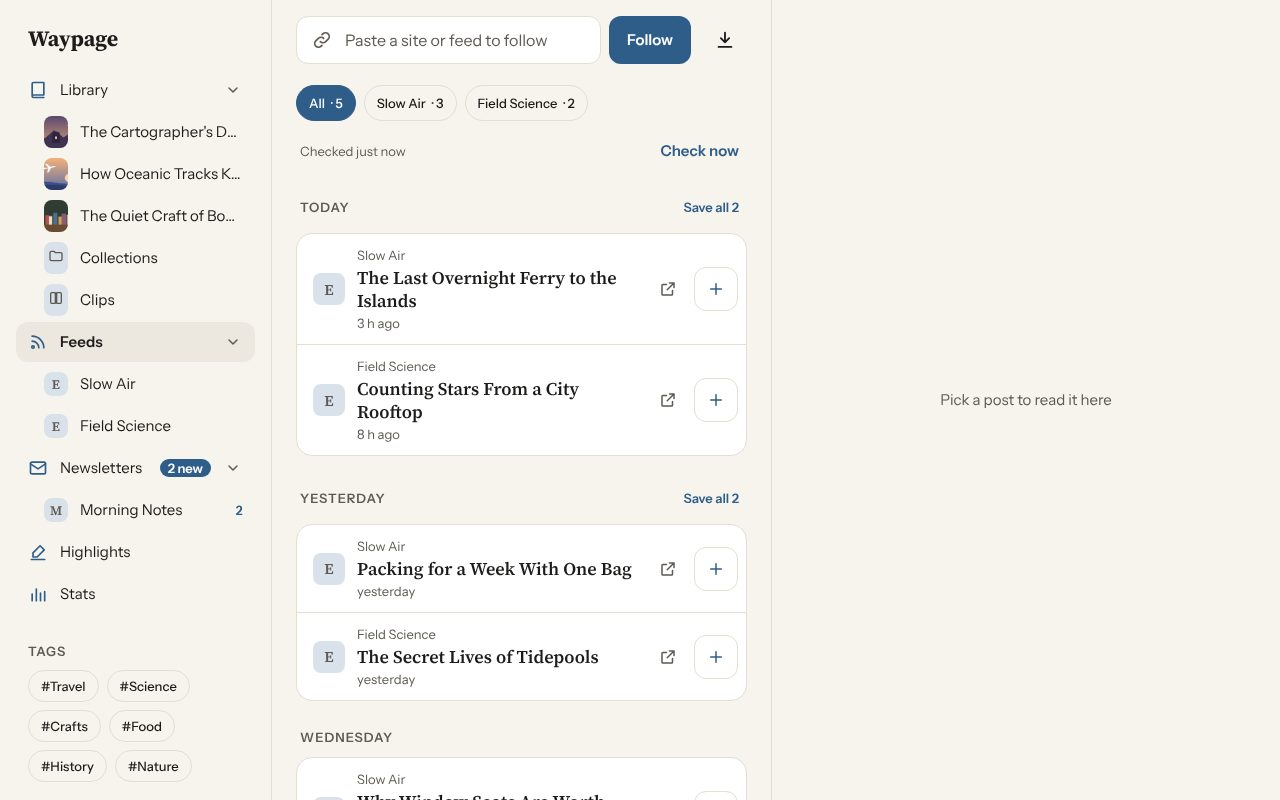
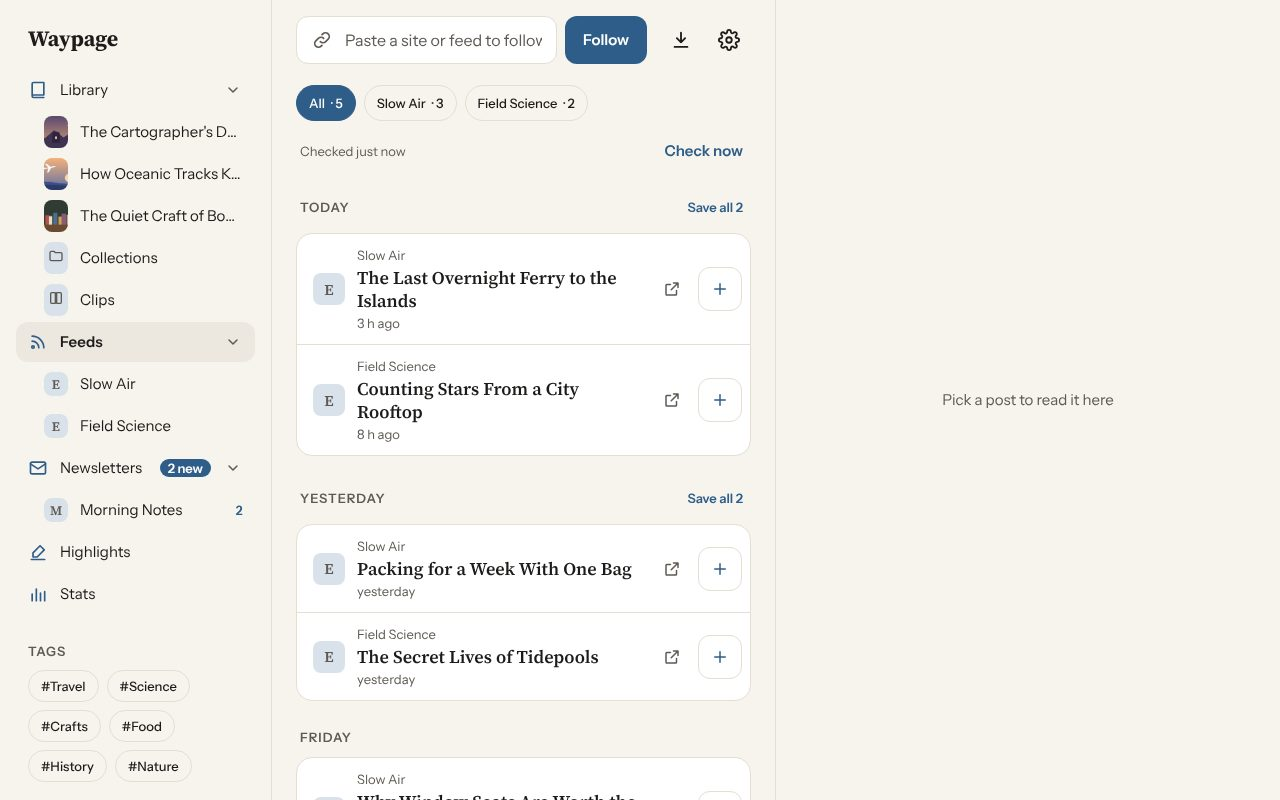
Feeds, Newsletters and Highlights split half and half on a computer, with a line to drag
Claude-Session: https://claude.ai/code/session_01CFeKriHfoWW1T4GBSE4CQR

diff --git a/src/styles.css b/src/styles.css
@@ -2520,14 +2520,28 @@ kbd {
   }
   .reader.aloud .read-keys { display: none; }
 }
+.pane-grip { display: none; }
 @media (min-width: 1280px) {
-  body.pinned #libraryView:is([data-place="feeds"], [data-place="newsletters"], [data-place="highlights"]) { width: 500px; border-inline-end: 1px solid var(--line); }
+  /* The list and the post beside it share the room half and half, and
+     the line between them can be dragged (1.49.0, Daniel's ask; it was a
+     500 px list). --list-w is set from the saved share in app-places.js. */
+  :root { --list-w: calc((100vw - var(--side-w)) / 2); }
+  body.pinned #libraryView:is([data-place="feeds"], [data-place="newsletters"], [data-place="highlights"]) { width: var(--list-w); border-inline-end: 1px solid var(--line); }
+  body.pinned:has(#libraryView:is([data-place="feeds"], [data-place="newsletters"], [data-place="highlights"])):not(:has(#readerView:not([hidden]):not([data-pane]))) .pane-grip {
+    display: block; position: fixed; top: 0; bottom: 0; left: calc(var(--side-w) + var(--list-w) - 5px); z-index: 11; width: 10px;
+    cursor: col-resize; touch-action: none;
+  }
+  .pane-grip::after { content: ""; position: absolute; top: 0; bottom: 0; left: 4px; width: 2px; background: transparent; transition: background-color 120ms linear; }
+  .pane-grip:hover::after, .pane-grip.dragging::after, .pane-grip:focus-visible::after { background: var(--accent); }
+  .pane-grip:focus-visible { outline: none; }
+  body.resizing { cursor: col-resize; user-select: none; }
+  body.resizing iframe { pointer-events: none; }
   body.pinned #libraryView:is([data-place="feeds"], [data-place="newsletters"], [data-place="highlights"]) > * { padding-inline: var(--s-5); }
   body.pinned:has(#libraryView:is([data-place="feeds"], [data-place="newsletters"], [data-place="highlights"])):has(#readerView[hidden]) .pane-note {
-    display: flex; position: fixed; inset: 0 0 0 calc(var(--side-w) + 500px); align-items: center; justify-content: center; margin: 0;
+    display: flex; position: fixed; inset: 0 0 0 calc(var(--side-w) + var(--list-w)); align-items: center; justify-content: center; margin: 0;
     color: var(--muted);
   }
-  #readerView[data-pane] { left: calc(var(--side-w) + 500px); box-shadow: none; }
+  #readerView[data-pane] { left: calc(var(--side-w) + var(--list-w)); box-shadow: none; }
 }
 @media (min-width: 1024px) and (pointer: fine) {
   .read-left .read-time { margin-inline-start: auto; }

diff --git a/src/app-places.js b/src/app-places.js
@@ -1080,6 +1080,48 @@ function onKeys(e) {
   if (act) go(act);
 }
 
+// The line between a list and the post beside it, from 1280 px (1.49.0):
+// drag it, or focus it and use the arrow keys; a double-click puts it
+// back in the middle. The share of the room is kept, so it holds when
+// the window is resized.
+{
+  const grip = $("paneGrip"), KEY = "waypage.listShare", MIN = 320, PANE_MIN = 400;
+  const sideW = () => $("sidebar").offsetWidth || 272;
+  const room = () => innerWidth - sideW();
+  let share = load(KEY, 0.5);
+  function place(f) {
+    const r = room(), w = Math.round(Math.max(MIN, Math.min(r - PANE_MIN, f * r)));
+    document.documentElement.style.setProperty("--list-w", w + "px");
+    grip.setAttribute("aria-valuenow", String(Math.round((w / r) * 100)));
+    return w / r;
+  }
+  const keep = (f) => { share = place(f); store(KEY, share); };
+  place(share);
+  addEventListener("resize", () => place(share));
+  grip.addEventListener("pointerdown", (e) => {
+    if (e.button) return;
+    e.preventDefault();
+    grip.setPointerCapture(e.pointerId);
+    grip.classList.add("dragging");
+    document.body.classList.add("resizing");
+  });
+  grip.addEventListener("pointermove", (e) => { if (grip.classList.contains("dragging")) share = place((e.clientX - sideW()) / room()); });
+  const end = () => {
+    if (!grip.classList.contains("dragging")) return;
+    grip.classList.remove("dragging");
+    document.body.classList.remove("resizing");
+    keep(share);
+  };
+  grip.addEventListener("pointerup", end);
+  grip.addEventListener("pointercancel", end);
+  grip.addEventListener("dblclick", () => keep(0.5));
+  grip.addEventListener("keydown", (e) => {
+    const d = { ArrowLeft: -0.02, ArrowRight: 0.02 }[e.key];
+    if (d) { e.preventDefault(); keep(share + d); }
+    else if (e.key === "Home" || e.key === "End") { e.preventDefault(); keep(e.key === "Home" ? 0 : 1); }
+  });
+}
+
 // Ctrl V (⌘ V) with no field to paste into saves the link, from 700 px.
 document.addEventListener("paste", (e) => {
   if (!wide.matches || typingIn(e.target) || state.open || state.menu || state.settings || state.batch) return;

diff --git a/index.html b/index.html
@@ -319,6 +319,7 @@
   </div>
   <div class="screen-catch" id="screenCatch" hidden></div>
   <p class="pane-note" id="paneNote">Pick a post to read it here</p>
+  <div class="pane-grip" id="paneGrip" role="separator" aria-orientation="vertical" aria-label="List width" aria-valuemin="0" aria-valuemax="100" tabindex="0"></div>
   <div class="menu-catch side-catch" id="sideCatch" hidden></div>
   <nav class="sidebar" id="sidebar" aria-label="Library and feeds" hidden></nav>
   <div class="menu-catch" id="menuCatch" hidden></div>

diff --git a/NOTES.md b/NOTES.md
@@ -32,6 +32,22 @@ leaves with the window rather than first. Search and Settings moved
 from the sidebar to the top bar's right end at the same time (Daniel's
 ask), so the window has one place to grow from on every big screen.
 
+**Dialogs zoom out of their button (1.49.0).** Downloads, Sync, Save
+with options and the Settings window used `popFrom`, which clips the
+box down to the button's size and uncovers it. That suits a small menu,
+but on a 400 to 1000 px box the content stood still while a rectangle
+wiped across it (Daniel: "not good"). `zoomFrom` scales the whole box
+from the button at its own proportions, about the point of the box
+nearest the button, and `zoomInto` runs it back on the quicker spring.
+Menus keep `popFrom`.
+
+**The list and post split is a share, not pixels (1.49.0).** It was a
+500 px list; Daniel asked for half and half and a line to drag. The
+share is saved (`waypage.listShare`), so the split follows the window
+when it's resized; the list keeps at least 320 px and the post 400 px.
+While dragging, iframes ignore the pointer, or the reader's page would
+swallow the drag.
+
 **Preview builds are pre-releases, one per branch (1.48.0).** The
 workflow artifact was the first idea: it needs no token either, but it
 is a zip, its link lives a minute, and it is gone after 90 days. A

diff --git a/DONE.md b/DONE.md
@@ -68,7 +68,7 @@ release ships a feature, it gets a line here and leaves TODO.md.
 - Look up in your own StarDict dictionaries, offline: added in Settings › Reading, with word endings, synonyms and Hebrew prefixes (1.45.0)
 - Brightness swipe with Auto, movable to the right (1.10.0, 1.14.0, 1.16.0)
 - Previous/Next and a collection list in the reader (1.23.0)
-- Big-screen layouts and keyboard shortcuts (1.5.0); Settings as a window from the gear, Search and Settings at the top right, keys 1 to 5 for the sidebar's places (1.49.0)
+- Big-screen layouts and keyboard shortcuts (1.5.0); Settings as a window from the gear, Search and Settings at the top right, keys 1 to 5 for the sidebar's places, a list and post split half and half with a line to drag, dialogs that zoom out of their button (1.49.0)
 - Dim pictures in dark themes (1.32.0)
 - Volume buttons turn pages on Android (1.32.0)
 

diff --git a/CHANGELOG.md b/CHANGELOG.md
@@ -10,6 +10,14 @@ All notable changes to Carry-on. Newest first.
   from the right across the whole window.
 - Computer: Search and Settings sit at the top right, beside Downloads,
   instead of in the sidebar.
+- Downloads, Sync and Save with options zoom out of their button,
+  whole and to scale, and shrink back into it. Before, the box was
+  uncovered from the button's corner, which looked like a cut-out
+  sliding open.
+- Computer: Feeds, Newsletters and Highlights split the room half and
+  half between the list and what's open beside it. Drag the line
+  between them to change it (or focus it and use the arrow keys;
+  double-click puts it back in the middle).
 
 ### Added
 - Keys 1 to 5 go to Library, Feeds, Newsletters, Highlights and Stats.

diff --git a/DESIGN.md b/DESIGN.md
@@ -126,7 +126,8 @@ and the page shows above it.
   halfway. Only transform and opacity move. The one fade with motion on.
 - Screens with no card behind them (Settings, a pane) come in from the
   right; on touch the screen under them drifts 25% left. Downloads and
-  dialogs grow from their button. On a big screen (700 px and up)
+  dialogs zoom out of their button, whole and to scale (1.49.0), and
+  shrink back into it. On a big screen (700 px and up)
   Settings is a window that grows from the gear (1.49.0): there,
   nothing crosses the window to land on the far side; a screen comes
   from its button or from the side it ends up on. Menus and popovers grow from their

diff --git a/README.md b/README.md
@@ -142,6 +142,7 @@ Each section below shows the computer (left) and the phone (right).
 - Checked with the app closed, with notifications per post or grouped, and quiet feeds.
 - Feeds in and out as OPML.
 - Swipe sideways to go to the next or previous feed (or address in Newsletters); the chips stay still.
+- On a computer the list and the open post share the window half and half; drag the line between them to resize.
 
 ## Newsletters
 
